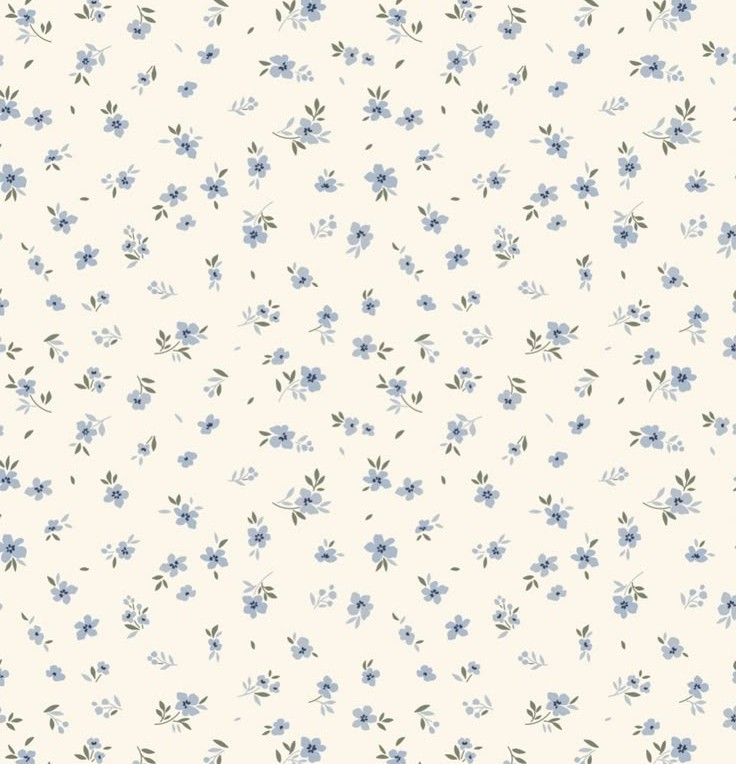
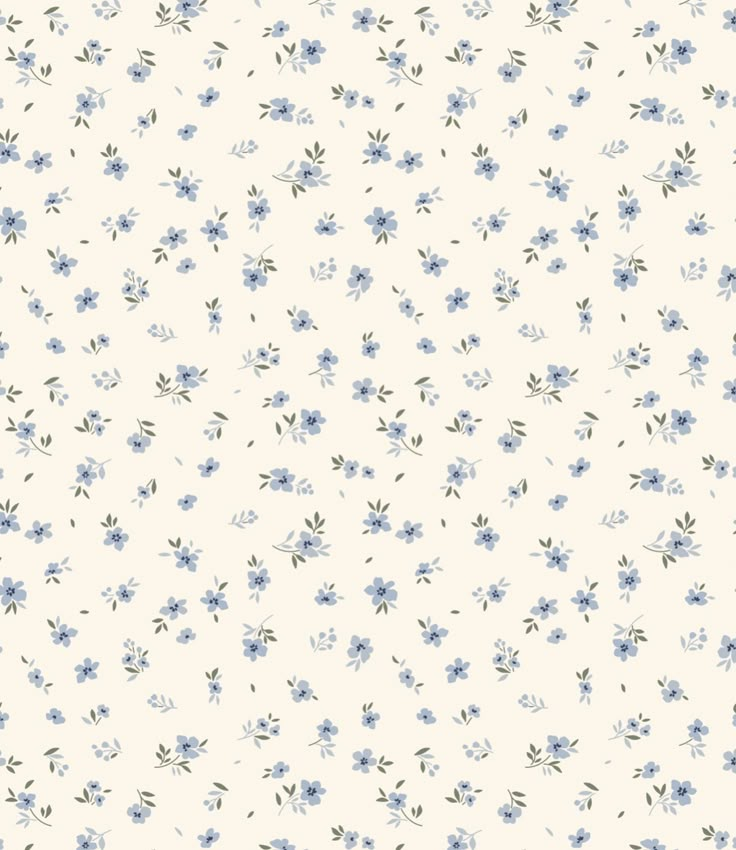
done

diff --git a/res/reasons.js b/res/reasons.js
@@ -1,0 +1,97 @@
+export const reasons = [
+  "01. Красивая",
+  "02. Умная",
+  "03. Сообразительная",
+  "04. Любвеобильная",
+  "05. Тактильная",
+  "06. Уважает мое мнение(кокоми))))",
+  "07. Старательная",
+  "08. Милашка",
+  "09. Очёчки)",
+  "10. Интересный характер",
+  "11. Умение договариваться",
+  "12. Хорник",
+  "13. Любит поспорить",
+  "14. Придерживается своей точки зрения",
+  "15. По моей просьбе прекращает щекотаться",
+  "16. Комфортик",
+  "17. Готова подождать меня перед сном",
+  "18. Может проспать со мной в обнимку всю ночь",
+  "19. Когда чего-то хочет, говорит напрямую",
+  "20. Пахнет чистеньким)",
+  "21. Талия аномалия",
+  "22. Готова посидеть у меня на коленках, хотя и не любит",
+  "23. Пишет первой",
+  "24. По ней понятно какое настроение",
+  "25. Обнимашки она любит, понимаете?",
+  "26. Лыба (счастлив ее видеть)",
+  "27. Что бы не произошло, она верна мне",
+  "28. Донатила мне на луну<3",
+  "29. Делала за меня дейлики",
+  "30. Отдаст своё мясо с тарелки >:)",
+  "31. Доест селёдочку, когда в меня уже не лезет",
+  "32. Пахнет вкусно даже когда потная",
+  "33. Идеальная форма тела",
+  "34. Няшные сережки",
+  "35. Идёт любая одежда",
+  "36. ОСОБЕННО платья",
+  "37. Кушает не много и легко прокормить)",
+  "38. Хочет обеспечить нас двоих",
+  "39. Хорошо учится",
+  "40. Делает всё вовремя не смотря ни на что",
+  "41. Сдерживает обещания",
+  "42. Может сама оплатить проезд))",
+  "43. Красиво поёт",
+  "44. Любит котиков",
+  "45. Кидает картинки",
+  "46. Пикчи",
+  "47. Мемчики)",
+  "48. Милые фоточки",
+  "49. Готова со мной уйти далеко и надолго",
+  "50. Обеспечивает спокойствие даже у самых трудных ситуациях",
+  "51. Смотреть не насмотреться",
+  "52. Готова ехать ради меня в какую-то 3.14зду",
+  "53. Все завидуют мне с ней)",
+  "54. Хочет провести со мной всю жизнь",
+  "55. Красивые ножки",
+  "56. Пухлые ляшки",
+  "57. Красивая фамилия",
+  "58. Заботливая",
+  "59. Может взять приёмыша)",
+  "60. Мяукает",
+  "61. Любит искренне",
+  "62. Любит поревновать, и это няшно",
+  "63. Закрывает глаза на мои косяки",
+  "64. Готова простить (почти) любую хуйню",
+  "65. Разрешает отправить одно сообщение женщине в месяц",
+  "66. Даёт милые прозвища",
+  "67. Мило обижается",
+  "68. Если попросить, приготовит очень вкусную еду",
+  "69. 69)",
+  "70. Верно защищает мя при других",
+  "71. Ради меня скачала доту",
+  "72. Относится с пониманием когда игнорю",
+  "73. В споре убьёт любого",
+  "74. Больно кусается",
+  "75. Часто пишет мне комплиментики",
+  "76. Смущает меня своими словами (я люблю это чувство)",
+  "77. Не скрывает от меня ничего",
+  "78. Просит прощения, даже если это что-то безвредное",
+  "79. Очень эмоциональная",
+  "80. Эти эмоции переходят и на меня, хотя зачастую я камень",
+  "81. Вслух мечтает о будущем, и как-то хорошо стает)",
+  "82. От одного сообщения я расплываюсь в улыбке",
+  "83. Красивый животик",
+  "84. Многое разрешает",
+  "85. Знает меру и границы",
+  "86. Необъятная душа, ранимая но сильная)",
+  "87. Слушает песни которые я кидаю и независимо их оценивает",
+  "88. Ухаживает за собой",
+  "89. Из-за этого пахнет кремиками (вкусно)",
+  "90. Даже если мы сильно поссорились мне легко с ней помирится, ведь мы знаем что друг без друга никак",
+  "91. Так же ценит моё мнение",
+  "92. Ручки очень нежные и маленькие",
+  "93. Выглядит как моя будущая жена",
+  "94. Даст в долг до понедельника",
+  "95. Причины не нужны ты и без них сокровище <3"
+]

diff --git a/counter.html b/counter.html
@@ -1,0 +1,72 @@
+<!DOCTYPE html>
+<html lang="en">
+  <head>
+    <meta charset="UTF-8" />
+    <meta name="viewport" content="width=device-width, initial-scale=1.0" />
+    <title>Luv u</title>
+    <link rel="preconnect" href="https://fonts.googleapis.com">
+    <link rel="preconnect" href="https://fonts.gstatic.com" crossorigin>
+    <link href="https://fonts.googleapis.com/css2?family=Lora:ital,wght@0,400..700;1,400..700&family=Pacifico&family=Roboto:ital,wght@0,100..900;1,100..900&display=swap" rel="stylesheet">
+    <link rel="stylesheet" href="https://cdnjs.cloudflare.com/ajax/libs/normalize/8.0.1/normalize.min.css" integrity="sha512-NhSC1YmyruXifcj/KFRWoC561YpHpc5Jtzgvbuzx5VozKpWvQ+4nXhPdFgmx8xqexRcpAglTj9sIBWINXa8x5w==" crossorigin="anonymous" referrerpolicy="no-referrer" />
+    <link rel="stylesheet" href="./css/reset.css" />
+    <link rel="stylesheet" href="./css/styles.css" />
+  </head>
+  <body>
+    <header class="header">
+      <div class="header-container">
+        <ul class="header-list">
+            <li class="header-item">
+                <a href="index.html" class="header-link">Главная</a>
+              </li>
+          <li class="header-item">
+            <a href="counter.html" class="header-link current">Счётчики</a>
+          </li>
+          <li class="header-item">
+            <a href="#" class="header-link">Галерея</a>
+          </li>
+        </ul>
+        <button id="openModal" class="header-link">Залогиниться</button>
+      </div>
+    </header>
+    <main class="main">
+        <section class="counters">
+            <div class="container">
+                <ul class="counter-list">
+                    <li class="counter">
+                        <div class="counter-wrap">
+                            <h2 class="counter-text">Времени вместе:</h2>
+                            <span id="timeTogether" class="time">134:12:32:48</span>
+                        </div>
+                    </li>
+                    <li class="counter">
+                        <div class="counter-wrap">
+                            <h2 class="counter-text">До следующей годовщины:</h2>
+                            <span id="timeToAnniversary" class="time">134:12:32:48</span>
+                        </div>
+                    </li>
+                    <li class="counter small">
+                        <div class="counter-wrap">
+                            <h2 class="counter-text">День рождения Сашик</h2>
+                            <span id="timeToShura" class="time">102:02:20:44</span>
+                        </div>
+                    </li>
+                    <li class="counter small">
+                        <div class="counter-wrap">
+                            <h2 class="counter-text">День рождения Роман Джура</h2>
+                            <span id="timeToRoma" class="time">10:09:13:45</span>
+                        </div>
+                    </li>
+                </ul>
+            </div>
+        </section>
+    </main>
+    <div id="registerModal">
+        <div class="modal-content">
+            <p id="modalText">Впиши свой ник, он будет отображаться в некоторых элементах</p>
+            <input placeholder="Тыкать сюда&#10084" id="modalInput" type="text">
+            <button id="closeModal">Сохранить</button>
+        </div>
+    </div>
+    <script type="module" src="./script.js"></script>
+  </body>
+</html>

diff --git a/script.js b/script.js
@@ -1,18 +1,30 @@
-function toggleTheme() {
+import { reasons } from "./res/reasons.js";
+// theme
+document.addEventListener("DOMContentLoaded", () => {
+  const themes = ["theme-feminine", "theme-masculine"];
+  const theme = themes[Math.floor(Math.random() * themes.length)];
   const body = document.body;
-  if (body.classList.contains("theme-feminine")) {
-    body.classList.remove("theme-feminine");
-    body.classList.add("theme-masculine");
+  body.classList.add(`${theme}`);
+  if(body.classList.contains("theme-feminine")){
+    body.style.backgroundImage = "url(imgs/flower-bg.jpg)"
+  } else if(body.classList.contains("theme-masculine")){
     body.style.backgroundImage = "url(imgs/pipi.jpg)";
-  } else {
-    body.classList.remove("theme-masculine");
-    body.classList.add("theme-feminine");
-    body.style.backgroundImage = "url(imgs/flower-bg.jpg)";
   }
-}
+});
 
+// function toggleTheme() {
+//   const body = document.body;
+//   if (body.classList.contains("theme-feminine")) {
+//     body.classList.remove("theme-feminine");
+//     body.classList.add("theme-masculine");
+//     body.style.backgroundImage = "url(imgs/pipi.jpg)";
+//   } else {
+//     body.classList.remove("theme-masculine");
+//     body.classList.add("theme-feminine");
+//     body.style.backgroundImage = "url(imgs/flower-bg.jpg)";
+//   }
+// } //возможность соасть хууп
 const heroQuote = document.getElementById("heroQuote");
-
 // modal
 document.addEventListener("DOMContentLoaded", () => {
   let userData = JSON.parse(localStorage.getItem("userData")) || [];
@@ -36,7 +48,7 @@ document.addEventListener("DOMContentLoaded", () => {
       openModalBtn.textContent = `${modalInput.value}`;
       modalText.textContent = `Ты успешно поменяла ник на - ${modalInput.value}`;
       const naming = modalInput.value;
-      localStorage.setItem('userData', JSON.stringify({naming}))
+      localStorage.setItem("userData", JSON.stringify({ naming }));
       modalInput.value = "";
       setTimeout(() => {
         modal.style.display = "none";
@@ -48,7 +60,14 @@ document.addEventListener("DOMContentLoaded", () => {
       modal.style.display = "none";
     }
   };
-  openModalBtn.textContent = `${JSON.parse(localStorage.getItem('userData')).naming}`;
+  openModalBtn.textContent = `${
+    JSON.parse(localStorage.getItem("userData")).naming
+  }`;
 
   // const userName
+});
+document.addEventListener("DOMContentLoaded", () => {
+  heroQuote.textContent = `${
+    reasons[Math.floor(Math.random() * reasons.length)]
+  }`;
 });

diff --git a/index.html b/index.html
@@ -11,15 +11,15 @@
     <link rel="stylesheet" href="./css/reset.css" />
     <link rel="stylesheet" href="./css/styles.css" />
   </head>
-  <body class="theme-feminine">
+  <body>
     <header class="header">
       <div class="header-container">
         <ul class="header-list">
             <li class="header-item">
-                <a href="#" class="header-link current">Главная</a>
+                <a href="index.html" class="header-link current">Главная</a>
               </li>
           <li class="header-item">
-            <a href="#" class="header-link">Счётчики</a>
+            <a href="counter.html" class="header-link">Счётчики</a>
           </li>
           <li class="header-item">
             <a href="#" class="header-link">Галерея</a>
@@ -31,7 +31,7 @@
     <main class="main">
         <section class="hero">
             <div class="container">
-                <h1 id="heroQuote">Здесь будет находиться ваш текст десь будет находиться ваш текст</h1>
+                <h1 class="hero-text">Одна из причин по которой я тебя люблю, это причина № <br> <span id="heroQuote"></span></h1>
             </div>
         </section>
         <section class="link-tree">
@@ -78,7 +78,6 @@
             <button id="closeModal">Сохранить</button>
         </div>
     </div>
-    <button onclick="toggleTheme()">🔄 Змінити тему</button>
     <!-- <div class="box">
       <button onclick="toggleTheme()">🔄 Змінити тему</button>
       <ul class="test-list">
@@ -93,6 +92,6 @@
       </ul>
     </div> -->
 
-    <script src="./script.js"></script>
+    <script type="module" src="./script.js"></script>
   </body>
 </html>

diff --git a/css/styles.css b/css/styles.css
@@ -15,10 +15,8 @@ body {
   margin: 0;
   padding: 0;
   font-family: "Lora", serif;
-  /* font-family: "Roboto", sans-serif; */
   background-color: var(--bg-color);
-  background-image: url(../imgs/flower-bg.jpg);
-  background-size: 500px;
+  background-size: 40%;
   background-repeat: repeat;
   background-position: center;
   color: var(--text-color);
@@ -153,7 +151,7 @@ section{
   height: 550px;
   position: relative;
 }
-#heroQuote{
+.hero-text{
   position: absolute;
   top: 50%;
   left: 50%;
@@ -214,38 +212,44 @@ section{
 
 
 
-
-/* .box {
-  width: 900px;
-  margin: 0 auto;
-  background-color: black;
-  padding: 20px;
-}
-
-.test-li-one {
-  background-color: var(--bg-casual);
-  padding: 10px;
-}
-
-.test-p-one {
-  color: var(--text-on-casual);
-}
-
-.test-btn-one {
-  background-color: var(--accent);
-  padding: 10px 20px;
-  border-radius: 10px;
-}
-
-.test-btn-one:hover {
-  background-color: var(--accent-hover);
-}
-
-.test-li-two {
+/* counters */
+.counters{
+  padding-top: 134px;
+  padding-bottom: 134px;
   background-color: var(--bg-contrast);
-  padding: 10px;
-}
 
-.test-p-two {
-  color: var(--text-on-contrast);
-} */
+}
+.counter-list{
+  display: flex;
+  flex-direction: row;
+  justify-content: space-between;
+  flex-wrap: wrap;
+  gap: 40px;
+}
+.counter-list li{
+  padding: 20px;
+  border: 2px solid var(--text-on-contrast);
+  border-radius: 20px;
+}
+.counter{
+  width: 100%;
+  background-color: var(--bg-casual);
+}
+.small{
+  width: 47%;
+}
+.counter-wrap{
+  display: flex;
+  flex-direction: column;
+  align-items: center;
+  gap: 10px;
+}
+.counter-text{
+  font-size: 16px;
+  font-weight: 500;
+}
+.time{
+  font-family: "Pacifico", cursive;
+  color: var(--text-on-casual);
+  font-size: 24px;
+}
